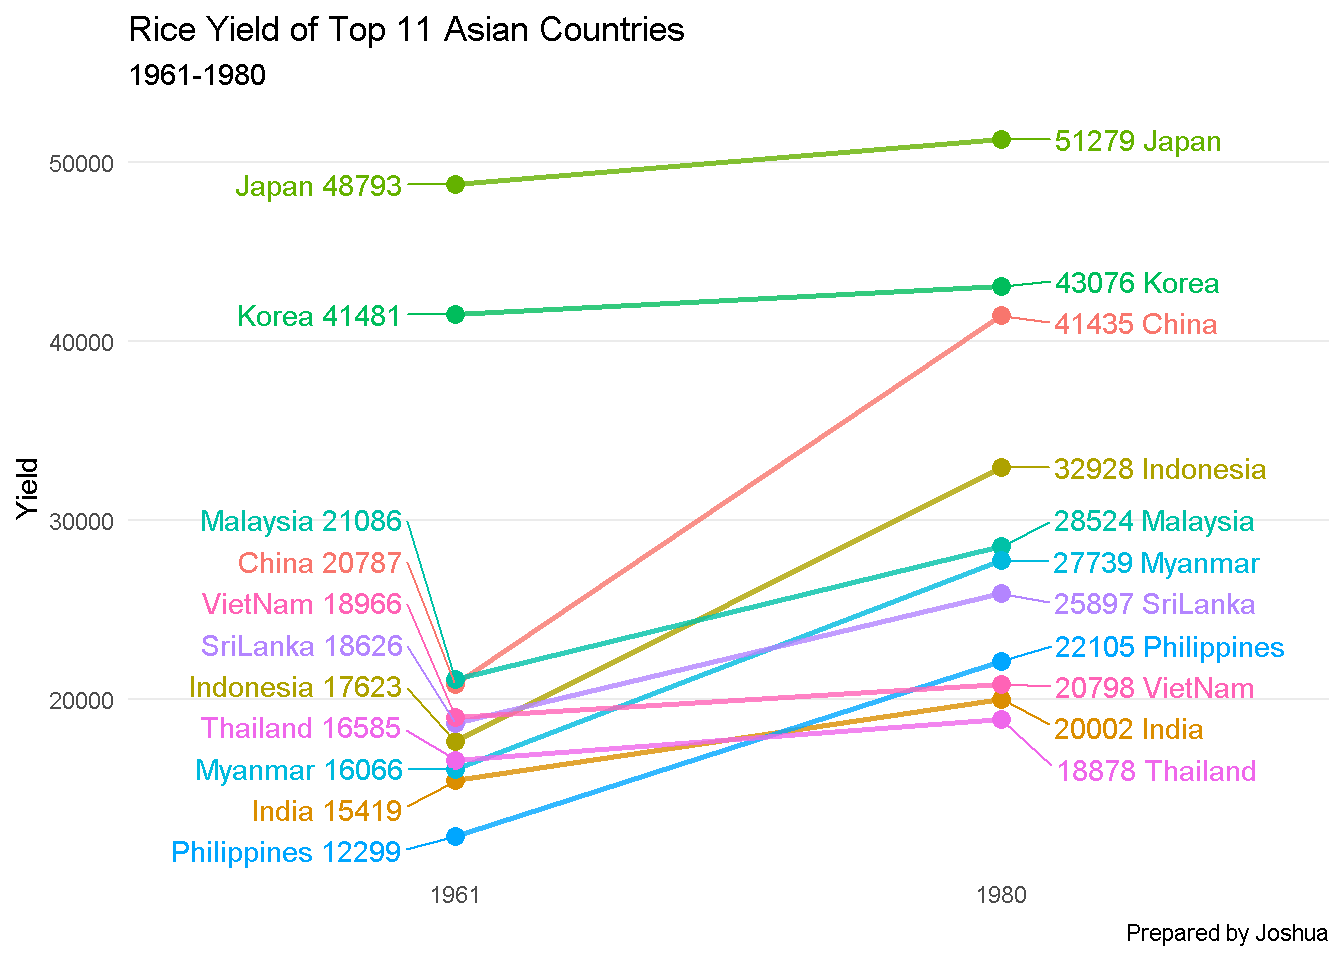
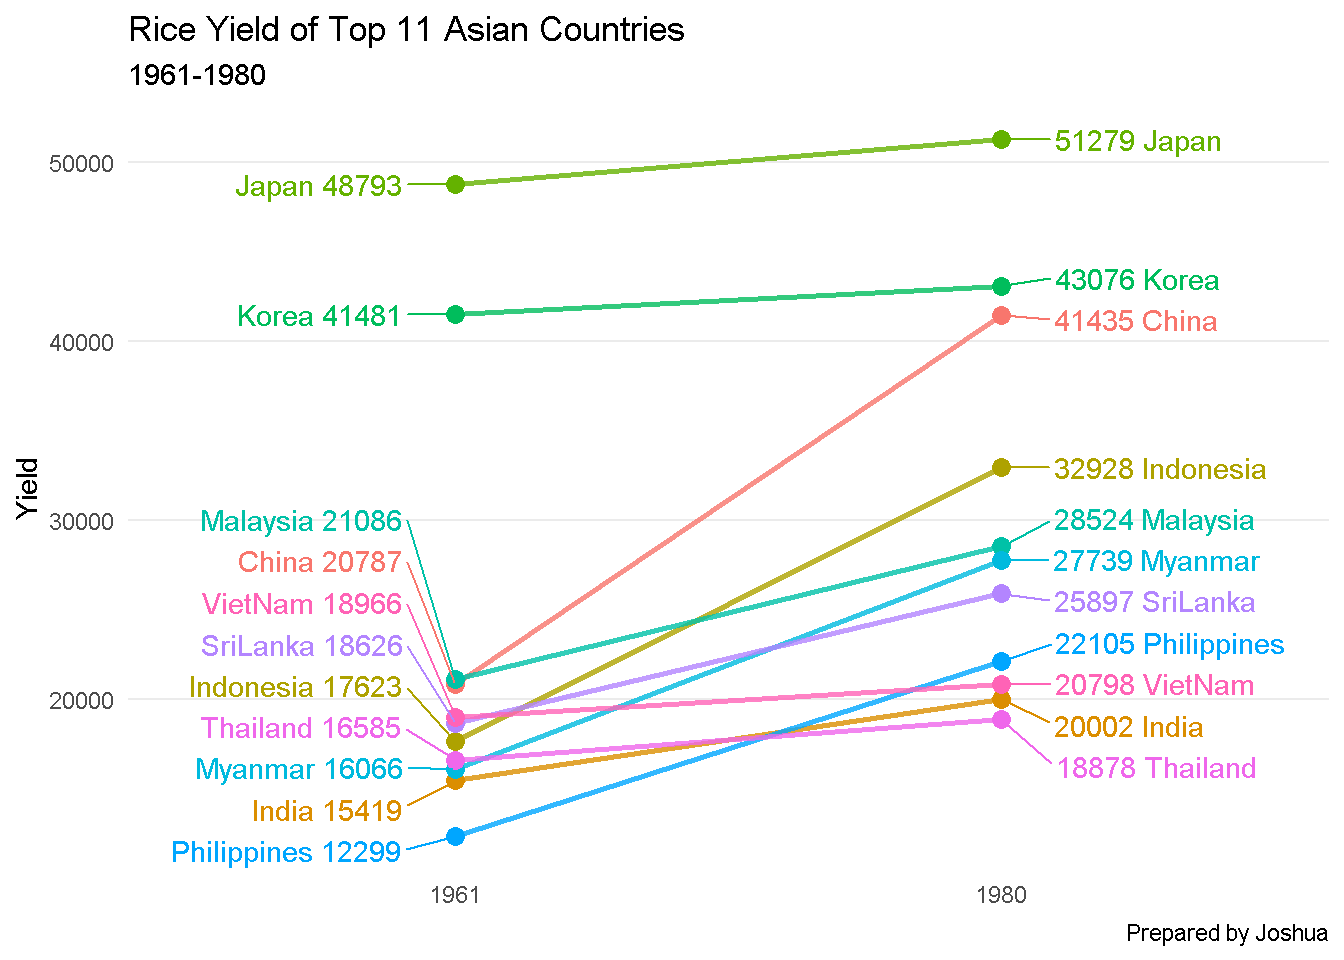
s

diff --git a/_site/Hands-on_Ex/Hands-on_Ex08/Hands-on_Ex08.html b/_site/Hands-on_Ex/Hands-on_Ex08/Hands-on_Ex08.html
@@ -221,7 +221,9 @@ pre > code.sourceCode > span > a:first-child::before { text-decoration: underlin
   <li><a href="#importing-the-data" id="toc-importing-the-data" class="nav-link" data-scroll-target="#importing-the-data"><strong>1.2 Importing the data</strong></a></li>
   <li><a href="#examining-the-data-structure" id="toc-examining-the-data-structure" class="nav-link" data-scroll-target="#examining-the-data-structure"><strong>1.3 Examining the data structure</strong></a></li>
   <li><a href="#data-preparation" id="toc-data-preparation" class="nav-link" data-scroll-target="#data-preparation"><strong>1.4 Data Preparation</strong></a></li>
-  <li><a href="#building-the-calendar-heatmaps" id="toc-building-the-calendar-heatmaps" class="nav-link" data-scroll-target="#building-the-calendar-heatmaps"><strong>2 Building the Calendar Heatmaps</strong></a></li>
+  </ul></li>
+  <li><a href="#building-the-calendar-heatmaps" id="toc-building-the-calendar-heatmaps" class="nav-link" data-scroll-target="#building-the-calendar-heatmaps"><strong>2 Building the Calendar Heatmaps</strong></a>
+  <ul class="collapse">
   <li><a href="#building-multiple-calendar-heatmaps" id="toc-building-multiple-calendar-heatmaps" class="nav-link" data-scroll-target="#building-multiple-calendar-heatmaps"><strong>2.1 Building Multiple Calendar Heatmaps</strong></a></li>
   <li><a href="#plotting-multiple-calendar-heatmaps" id="toc-plotting-multiple-calendar-heatmaps" class="nav-link" data-scroll-target="#plotting-multiple-calendar-heatmaps"><strong>2.2 Plotting Multiple Calendar Heatmaps</strong></a></li>
   <li><a href="#plotting-multiple-calendar-heatmaps-1" id="toc-plotting-multiple-calendar-heatmaps-1" class="nav-link" data-scroll-target="#plotting-multiple-calendar-heatmaps-1"><strong>2.3 Plotting Multiple Calendar Heatmaps</strong></a></li>
@@ -506,8 +508,9 @@ Note
 </div>
 </div>
 </section>
-<section id="building-the-calendar-heatmaps" class="level3">
-<h3 class="anchored" data-anchor-id="building-the-calendar-heatmaps"><strong>2 Building the Calendar Heatmaps</strong></h3>
+</section>
+<section id="building-the-calendar-heatmaps" class="level2">
+<h2 class="anchored" data-anchor-id="building-the-calendar-heatmaps"><strong>2 Building the Calendar Heatmaps</strong></h2>
 <div class="cell">
 <details class="code-fold">
 <summary>Display Code</summary>
@@ -564,7 +567,6 @@ Note
 </div>
 </div>
 <p>Then we can simply group the count by hour and wkday and plot it, since we know that we have values for every combination there’s no need to further preprocess the data.</p>
-</section>
 <section id="building-multiple-calendar-heatmaps" class="level3">
 <h3 class="anchored" data-anchor-id="building-multiple-calendar-heatmaps"><strong>2.1 Building Multiple Calendar Heatmaps</strong></h3>
 <p><strong>Challenge:</strong> Building multiple heatmaps for the top four countries with the highest number of attacks.</p>

diff --git a/_site/index.html b/_site/index.html
@@ -196,7 +196,7 @@ ul.task-list li input[type="checkbox"] {
 </header>
 
 
-<p>Welcome to ISSS608, <strong>VISUAL ANALYTICS AND APPLICATIONS</strong>, this is a website containing my course work.</p>
+<p>Welcome to ISSS608, <strong>VISUAL ANALYTICS AND APPLICATIONS</strong>, this is a website containing Brandon Komajaya’s course work.</p>
 
 
 
